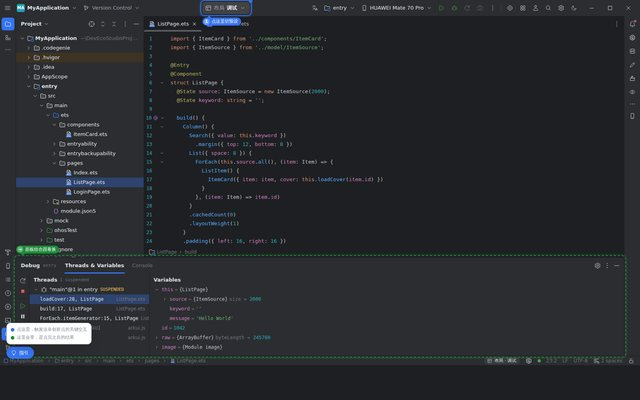
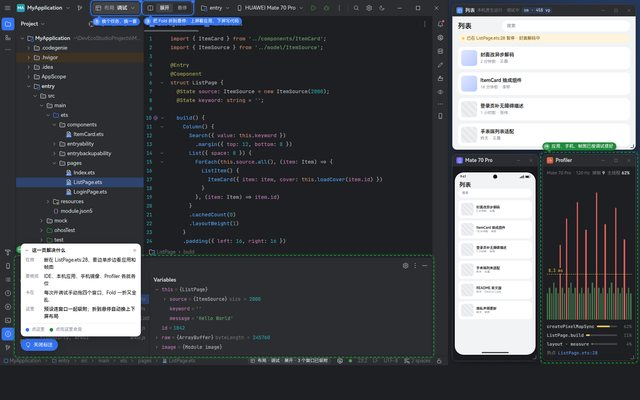
进行中：鸿蒙电脑版蓝本改 demo（续）

diff --git a/deveco-intui-kit/src/ai.css b/deveco-intui-kit/src/ai.css
@@ -33,7 +33,6 @@
   --ai-surface:#FFFFFF;--ai-surface-2:#F4F5F8;--ai-field-line:#DFE1E5;
   --ai-grad:linear-gradient(120deg,#6E56F0 0%,#A452E0 55%,#E0457F 100%);
   --ai-grad-v:linear-gradient(180deg,#6E56F0 0%,#A452E0 55%,#E0457F 100%);
-  --ai-conic:conic-gradient(from var(--ai-angle),#6E56F0,#A452E0,#E0457F,#A452E0,#6E56F0);
 }
 
 .ide[data-ide-theme="dark"],
@@ -48,7 +47,6 @@
   --ai-surface:#2B2D30;--ai-surface-2:#323438;--ai-field-line:#43454A;
   --ai-grad:linear-gradient(120deg,#8F7CFF 0%,#C08AF7 55%,#F27BAE 100%);
   --ai-grad-v:linear-gradient(180deg,#8F7CFF 0%,#C08AF7 55%,#F27BAE 100%);
-  --ai-conic:conic-gradient(from var(--ai-angle),#8F7CFF,#C08AF7,#F27BAE,#C08AF7,#8F7CFF);
 }
 @media (prefers-color-scheme: dark){
   :root:not([data-theme="light"]){
@@ -60,7 +58,6 @@
   --ai-surface:#2B2D30;--ai-surface-2:#323438;--ai-field-line:#43454A;
   --ai-grad:linear-gradient(120deg,#8F7CFF 0%,#C08AF7 55%,#F27BAE 100%);
   --ai-grad-v:linear-gradient(180deg,#8F7CFF 0%,#C08AF7 55%,#F27BAE 100%);
-  --ai-conic:conic-gradient(from var(--ai-angle),#8F7CFF,#C08AF7,#F27BAE,#C08AF7,#8F7CFF);
   }
 }
 
@@ -97,7 +94,8 @@ svg.ai-ico{width:16px;height:16px;flex:none;display:block;color:currentColor}
   -webkit-mask:var(--ai-spark-mask) center/contain no-repeat;mask:var(--ai-spark-mask) center/contain no-repeat}
 
 /* 小环：调用工具 / 在设备上验证 */
-.ai-ring{display:inline-block;flex:none;width:12px;height:12px;border-radius:50%;background:var(--ai-conic);
+.ai-ring{display:inline-block;flex:none;width:12px;height:12px;border-radius:50%;
+  background:conic-gradient(from 0deg,transparent 0 12%,var(--ai-violet) 40%,var(--ai-orchid) 70%,var(--ai-rose));
   -webkit-mask:radial-gradient(farthest-side,transparent calc(100% - 2px),#000 calc(100% - 1.6px));
           mask:radial-gradient(farthest-side,transparent calc(100% - 2px),#000 calc(100% - 1.6px));
   animation:ai-spin var(--ai-t-ring) linear infinite}
@@ -205,25 +203,25 @@ svg.ai-ico{width:16px;height:16px;flex:none;display:block;color:currentColor}
 .ai-field__send:active{transform:scale(.94)}
 .ai-field__send:disabled{background:var(--ai-surface-2);color:var(--ui-fg-disabled);cursor:default}
 .ai-field__send svg{width:14px;height:14px}
-.ai-field::before,.ai-field::after{content:"";position:absolute;inset:0;border-radius:inherit;pointer-events:none;opacity:0;transition:opacity .3s}
-/* 流动描边：1.5px 的锥形渐变环 */
-.ai-field::before{padding:1.5px;background:var(--ai-conic);
+.ai-field::before,.ai-field::after{content:"";position:absolute;border-radius:inherit;pointer-events:none;opacity:0;transition:opacity .3s;
+  background:conic-gradient(from var(--ai-angle),var(--ai-violet),var(--ai-orchid),var(--ai-rose),var(--ai-orchid),var(--ai-violet));
   -webkit-mask:linear-gradient(#000 0 0) content-box,linear-gradient(#000 0 0);-webkit-mask-composite:xor;
-          mask:linear-gradient(#000 0 0) content-box exclude,linear-gradient(#000 0 0)}
-/* 外发光：同一道光，模糊、压低透明度 */
-.ai-field::after{inset:-2px;background:var(--ai-conic);filter:blur(12px);z-index:-1}
+  mask:linear-gradient(#000 0 0) content-box,linear-gradient(#000 0 0);mask-composite:exclude}
+/* 流动描边：1.5px 的锥形渐变环（挖掉内容区，只剩一圈） */
+.ai-field::before{inset:0;padding:1.5px}
+/* 外发光：同一道光画在输入框大小的区域里、模糊后只留框外那一圈，不压到输入内容 */
+.ai-field::after{inset:-18px;padding:18px;border-radius:30px;background-clip:content-box;background-origin:content-box;filter:blur(9px)}
 .ai-field[data-state="generating"]{box-shadow:none}
 .ai-field[data-state="generating"]::before{opacity:1;animation:ai-angle var(--ai-t-shimmer) linear infinite}
-.ai-field[data-state="generating"]::after{opacity:.38;animation:ai-angle var(--ai-t-shimmer) linear infinite}
-.ai-field__gen{display:none;align-items:center;gap:7px;font-size:12px;color:var(--ui-fg-info);min-width:0}
+.ai-field[data-state="generating"]::after{opacity:.55;animation:ai-angle var(--ai-t-shimmer) linear infinite}
+.ai-field__gen{display:none;align-items:center;gap:7px;font-size:12px;color:var(--ui-fg-info);min-width:0;min-height:38px}
 .ai-field[data-state="generating"] .ai-field__gen{display:flex}
 .ai-field[data-state="generating"] .ai-field__ta{display:none}
-/* 生成中不会被外发光挤到：父容器需要 isolation 以便 z-index:-1 落在自身后面 */
-.ai-field{isolation:isolate}
 
 /* 兼容 kit 里已有的 .ai-input：加 data-ai-state="generating" 即获得同样的流动光 */
-.ai-input[data-ai-state="generating"]{border-color:transparent;isolation:isolate}
-.ai-input[data-ai-state="generating"]::after{inset:-1px;padding:1.5px;opacity:1;background:var(--ai-conic);
+.ai-input[data-ai-state="generating"]{border-color:transparent}
+.ai-input[data-ai-state="generating"]::after{inset:-1px;padding:1.5px;opacity:1;
+  background:conic-gradient(from var(--ai-angle),var(--ai-violet),var(--ai-orchid),var(--ai-rose),var(--ai-orchid),var(--ai-violet));
   animation:ai-angle var(--ai-t-shimmer) linear infinite}
 
 /* 3.2 就地问答浮层：选中代码 / 选中画布元素后出现 */
@@ -314,7 +312,7 @@ svg.ai-ico{width:16px;height:16px;flex:none;display:block;color:currentColor}
   .ai-ring{animation:none;background:conic-gradient(var(--ai-ink) 0 75%,transparent 0)}
   .ai-wait-dot::after{animation:none;inset:-3px;opacity:.28}
   .ai-field[data-state="generating"]::before,.ai-input[data-ai-state="generating"]::after{animation:none}
-  .ai-field[data-state="generating"]::after{animation:none;opacity:.22}
+  .ai-field[data-state="generating"]::after{animation:none;opacity:.3}
   .ai-touched{animation:ai-touch-reduced var(--ai-t-touch) linear 1}
 }
 .ai-reduce .ai-spark.is-live{animation:none;background:var(--ai-grad)}
@@ -322,6 +320,6 @@ svg.ai-ico{width:16px;height:16px;flex:none;display:block;color:currentColor}
 .ai-reduce .ai-ring{animation:none;background:conic-gradient(var(--ai-ink) 0 75%,transparent 0)}
 .ai-reduce .ai-wait-dot::after{animation:none;inset:-3px;opacity:.28}
 .ai-reduce .ai-field[data-state="generating"]::before,.ai-reduce .ai-input[data-ai-state="generating"]::after{animation:none}
-.ai-reduce .ai-field[data-state="generating"]::after{animation:none;opacity:.22}
+.ai-reduce .ai-field[data-state="generating"]::after{animation:none;opacity:.3}
 .ai-reduce .ai-touched{animation:ai-touch-reduced var(--ai-t-touch) linear 1}
 @keyframes ai-touch-reduced{0%,80%{box-shadow:0 0 0 1.5px var(--ai-orchid)}100%{box-shadow:0 0 0 1.5px transparent}}

diff --git a/demos/09-visual-programming/index.html b/demos/09-visual-programming/index.html
@@ -14,7 +14,8 @@
 <script src="../_shared/frame.js"></script>
 <script src="../_shared/guide.js"></script>
 <style>
-  .dm-split{grid-template-columns:1fr 1.08fr}
+  .ide[data-ide-theme]{--proj-w:250px}
+  .dm-split{grid-template-columns:minmax(0,1fr) minmax(0,1.16fr)}
   .dm-node .nh,.dm-node .nb{white-space:nowrap}
   .vp-left{background:var(--ui-editor-bg)}
   .vp-left .dm-pane-hd{height:36px}
@@ -115,27 +116,28 @@
   .vp-note svg{width:12px;height:12px;color:var(--ui-fg-info);flex:none}
   .dm-node.cond .vp-note{left:auto;right:-150px;top:22px}
   @keyframes vpnote{from{opacity:0;transform:translateY(-4px)}to{opacity:1;transform:none}}
-  .vp-pal{position:absolute;right:12px;bottom:12px;z-index:8;width:236px;border:1px solid var(--ui-popup-border);border-radius:var(--arc);background:var(--ui-popup-bg);box-shadow:var(--ui-shadow);font-size:var(--fs-sm);line-height:var(--lh-sm)}
-  .vp-pal[hidden]{display:none}
-  .vp-pal .ph{display:flex;align-items:center;gap:6px;height:28px;padding:0 10px;border-bottom:1px solid var(--ui-border);font-weight:600;color:var(--ui-fg);white-space:nowrap}
-  .vp-pal .ph svg.i{width:14px;height:14px;color:var(--ui-icon)}
-  .vp-pal .ph .grow{flex:1}
-  .vp-pal .pb{padding:6px 10px 8px;display:flex;flex-direction:column;gap:4px;color:var(--ui-fg-info)}
-  .vp-pal .pb div{display:flex;align-items:center;gap:6px;white-space:nowrap}
-  .vp-pal .pb svg.i{width:13px;height:13px;flex:none;color:var(--ui-icon)}
-  .vp-pal .pb b{color:var(--ui-fg);font-weight:600}
-  .vp-pal .pb .grow{flex:1}
-  .vp-pal .pb .btn{height:22px;font-size:11px;padding:0 8px}
+  .pen-pal{position:absolute;right:12px;bottom:12px;z-index:8;width:236px;border:1px solid var(--ui-popup-border);border-radius:var(--arc);background:var(--ui-popup-bg);box-shadow:var(--ui-shadow);font-size:var(--fs-sm);line-height:var(--lh-sm)}
+  .pen-pal[hidden]{display:none}
+  .pen-pal .ph{display:flex;align-items:center;gap:6px;height:28px;padding:0 10px;border-bottom:1px solid var(--ui-border);font-weight:600;color:var(--ui-fg);white-space:nowrap}
+  .pen-pal .ph svg.i{width:14px;height:14px;color:var(--ui-icon)}
+  .pen-pal .ph .grow{flex:1}
+  .pen-pal .pb{padding:6px 10px 8px;display:flex;flex-direction:column;gap:4px;color:var(--ui-fg-info)}
+  .pen-pal .pb div{display:flex;align-items:center;gap:6px;white-space:nowrap}
+  .pen-pal .pb svg.i{width:13px;height:13px;flex:none;color:var(--ui-icon)}
+  .pen-pal .pb b{color:var(--ui-fg);font-weight:600}
+  .pen-pal .pb .grow{flex:1}
+  .pen-pal .pb .btn{height:22px;font-size:11px;padding:0 8px}
   .vp-toast{position:absolute;left:50%;bottom:14px;transform:translateX(-50%);z-index:9;display:inline-flex;align-items:center;gap:8px;height:30px;padding:0 6px 0 12px;border-radius:15px;background:var(--ui-tooltip-bg);color:var(--ui-tooltip-fg);font-size:var(--fs-sm);white-space:nowrap;box-shadow:var(--ui-shadow);opacity:0;pointer-events:none;transition:opacity .2s}
   .vp-toast.on{opacity:1;pointer-events:auto}
   .vp-toast svg.i{width:13px;height:13px;flex:none}
   .vp-toast .btn{height:22px;font-size:11px;padding:0 8px}
   .vp-toast.bad svg.i{color:var(--ui-error)}
   .vp-toast.ok svg.i{color:var(--ui-success)}
-  .vp-toast.pal-on{left:calc(50% - 124px)}
+  .vp-toast.pal-on{left:auto;right:12px;transform:none;bottom:98px}
+  .dm-split.fold .vp-toast.pal-on{bottom:14px}
   /* MateBook Fold 悬停：上屏代码、下屏画布 */
   .hinge{display:none}
-  .dm-split.fold{grid-template-columns:minmax(0,1fr);grid-template-rows:minmax(0,1fr) 22px minmax(0,1fr)}
+  .dm-split.fold{grid-template-columns:minmax(0,1fr);grid-template-rows:minmax(0,1fr) 26px minmax(0,1fr)}
   .dm-split.fold > .vp-right{order:1;border-left:0}
   .dm-split.fold > .hinge{order:2;display:flex;align-items:center;justify-content:center;gap:8px;border-left:0;position:relative;
     background:linear-gradient(var(--ui-editor-bg),color-mix(in srgb,var(--ui-fg) 16%,var(--ui-bg)) 50%,var(--ui-editor-bg));border-top:1px solid var(--ui-border);border-bottom:1px solid var(--ui-border);font-size:11px;color:var(--ui-fg-info);white-space:nowrap;flex-direction:row}
@@ -143,9 +145,13 @@
   .hinge .hg svg.i{width:12px;height:12px;color:var(--ui-icon)}
   .hinge .hg b{color:var(--ui-fg);font-weight:600}
   .dm-split.fold > .vp-left{order:3;border-left:0}
-  .dm-split.fold .vp-stage{margin:0 auto}
-  .dm-split.fold .vp-pal{bottom:auto;top:44px}
+  .dm-split.fold .vp-stage{width:560px;min-width:0;margin:0 auto}
+  .dm-split.fold .pen-pal{bottom:auto;top:44px}
   .dm-split.fold .vp-ui{padding-top:14px}
+
+  .vp-phone .dm-device.phone{height:406px}
+  .vp-phone .dm-device .scr::before{content:"";position:absolute;top:4px;left:50%;width:7px;height:7px;margin-left:-3.5px;border-radius:50%;background:#0F1012;z-index:3;pointer-events:none}
+  .vp-phone .dm-device .scr::after{content:"";position:absolute;bottom:5px;left:50%;width:60px;height:3px;margin-left:-30px;border-radius:2px;background:rgba(0,0,0,.7);z-index:3;pointer-events:none}
 </style>
 </head>
 <body>
@@ -291,7 +297,7 @@
               </div>
             </div>
           </div>
-          <div class="vp-pal" id="pen-pal" hidden>
+          <div class="pen-pal" id="pen-pal" hidden>
             <div class="ph"><svg class="i"><use href="#i-pen"/></svg>M-Pen 3 · 已连接</div>
             <div class="pb">
               <div><svg class="i"><use href="#i-vp-link"/></svg>从组件画到节点 = <b>连线</b></div>
@@ -301,7 +307,7 @@
           <div class="vp-toast" id="vp-toast"><svg class="i"><use href="#i-checkS"/></svg><span id="vp-toast-t"></span><span id="vp-toast-a"></span></div>
         </div>
 
-        <div class="hinge" id="hinge"><span class="hg"><svg class="i"><use href="#i-vp-hover"/></svg><b>MateBook Fold</b> · 悬停 110°</span><span>上屏看代码 · 下屏用笔操作</span></div>
+        <div class="hinge" id="hinge"><span class="hg"><svg class="i"><use href="#i-vp-hover"/></svg><b>MateBook Fold</b> · 悬停 110° · 上屏看代码，下屏用笔</span></div>
 
         <!-- 右：代码 -->
         <div class="vp-right">

diff --git a/demos/01-layout-presets/index.html b/demos/01-layout-presets/index.html
@@ -613,7 +613,7 @@
     placeWins(false);renderMenu();capsule();
     window.addEventListener('resize',function(){half();bottomH();placeWins(false)});
   }});
-DemoGuide.init([{"target": "#preset-btn", "kind": "click", "pos": "bottom", "label": "换任务就换一套：审阅 / 多设备验证"}, {"target": ".tw-bottom", "kind": "change", "pos": "top", "label": "面板跟着任务换"},
+DemoGuide.init([{"target": "#preset-btn", "kind": "click", "pos": "bottom", "label": "换个任务，换一套"}, {"target": ".tw-bottom", "kind": "change", "pos": "top", "label": "面板跟着任务换"},
   {"target": "#posture", "kind": "click", "pos": "bottom", "label": "把 Fold 折到悬停：上屏看应用，下屏写代码"},
   {"target": "#fw-prof", "kind": "change", "pos": "top", "label": "应用、手机、帧图已按调试摆好"}],
   {scene:{at:"断在 ListPage.ets:28，要边单步边看应用和帧图",
